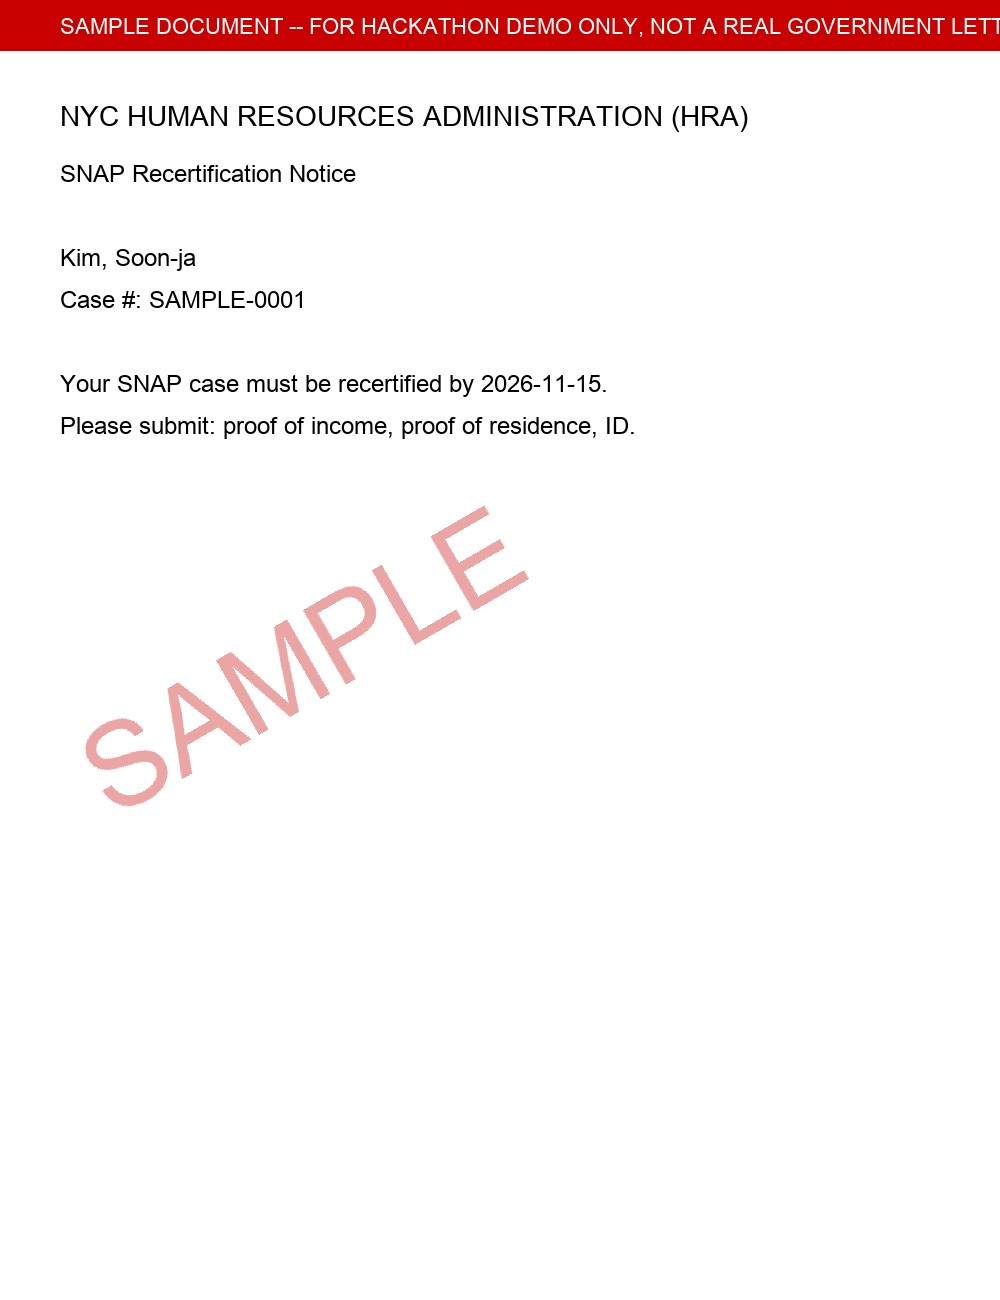
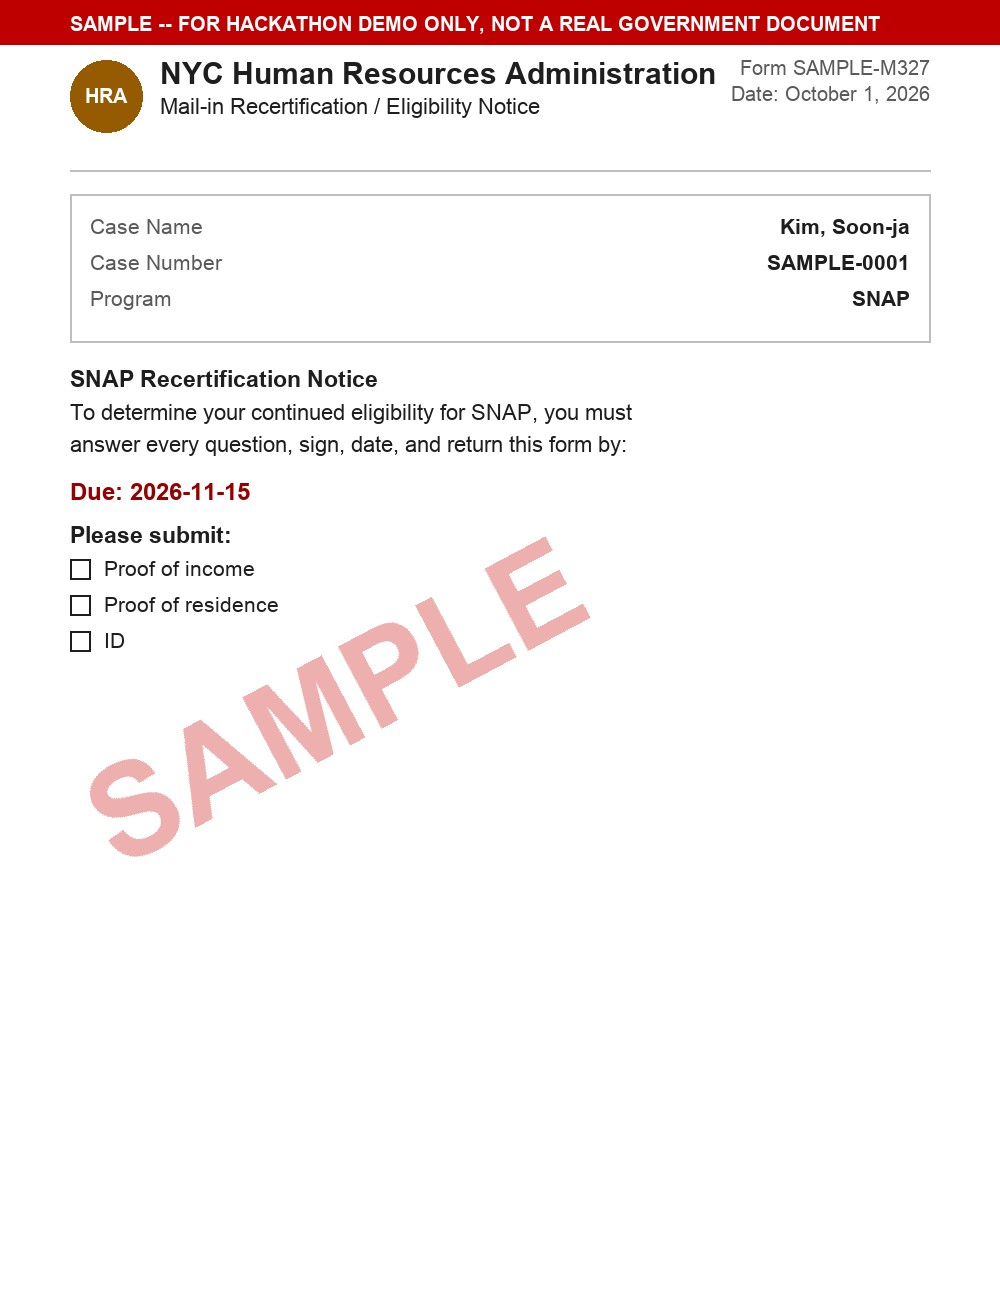
Redesign demo fixtures to match real official-document layouts
Pulled layout conventions from official samples the user sourced (SSA
Benefit Verification Letter, CMS Medicare Summary Notice for Part B, NYC
HRA Form M-327h recertification questionnaire, Medicare Rights Center
MSP coversheet): letterhead badge + reference-number block, bold section
headers, boxed claim/cost summaries with right-aligned values, checkbox
document lists. The previous fixtures were plain text dumps; these read
as something a judge would recognize as 'letter-shaped' on screen during
the live demo.

Does NOT reproduce any real agency seal/logo -- badges are generic
colored circles with abbreviation text (SSA/BK/HRA/QGH), not the actual
SSA eagle, HHS eagle, or NYC HRA marks. Every image still carries the
red SAMPLE banner and diagonal watermark; this must never be mistaken
for a real document.

Purely a visual change -- MOCK_MODE dispatches canned OCR text by
filename, never reads pixels, so the pipeline's behavior is identical.
Confirmed: 52 tests still passing.

Changed region(s): [[0.062, 0.2769, 0.651, 0.6769], [0.0, 0.0, 1.0, 0.2462], [0.775, 0.1231, 0.93, 0.2462]]

diff --git a/demo/generate_fixtures.py b/demo/generate_fixtures.py
@@ -1,11 +1,19 @@
 """Generates the four fake "SAMPLE" letter images used by the demo.
 
+Layout conventions (letterhead badge + reference-number block, bold
+section headers, boxed claim/cost summaries, checkbox document lists)
+are modeled on real official formats for visual authenticity:
+  - SSA Benefit Verification Letter (ssa.gov sample)
+  - CMS Medicare Summary Notice for Part B (cms.gov sample)
+  - NYC HRA Mail-in Recertification/Eligibility Questionnaire (Form M-327h)
+  - Medicare Rights Center MSP application coversheet
+
 These are cosmetic -- MOCK_MODE dispatches canned OCR text by filename
 keyword (see app/docs/oci_client.py), it never actually reads these
-pixels. The images exist so the demo has something real to photograph /
-show on screen, and so their rendered text matches the mock OCR text for
-narrative consistency. Every image is watermarked SAMPLE and clearly
-marked as not a real government document.
+pixels. No real agency seal/logo is reproduced (badges below are generic
+placeholders, not the actual SSA/HHS/NYC marks) and every image carries
+a SAMPLE watermark plus a banner stating it is not a real government
+document -- this must never be mistaken for an actual letter.
 
 Run with: python demo/generate_fixtures.py
 """
@@ -19,117 +27,269 @@ from PIL import Image, ImageDraw, ImageFont
 DEMO_DIR = Path(__file__).resolve().parent
 
 PAGE_SIZE = (1000, 1300)
-MARGIN = 60
+MARGIN = 70
+INK = (30, 30, 30)
+MUTED = (90, 90, 90)
+RULE = (190, 190, 190)
 
 _TRUETYPE_CANDIDATES = [
     "/System/Library/Fonts/Supplemental/Arial.ttf",
     "/System/Library/Fonts/Helvetica.ttc",
     "/usr/share/fonts/truetype/dejavu/DejaVuSans.ttf",
 ]
+_BOLD_CANDIDATES = [
+    "/System/Library/Fonts/Supplemental/Arial Bold.ttf",
+    "/System/Library/Fonts/Helvetica.ttc",
+    "/usr/share/fonts/truetype/dejavu/DejaVuSans-Bold.ttf",
+]
 
 
-def _font(size: int) -> ImageFont.FreeTypeFont:
-    for path in _TRUETYPE_CANDIDATES:
+def _font(size: int, bold: bool = False) -> ImageFont.FreeTypeFont:
+    candidates = _BOLD_CANDIDATES if bold else _TRUETYPE_CANDIDATES
+    for path in candidates:
         if Path(path).exists():
             return ImageFont.truetype(path, size)
     return ImageFont.load_default()
 
 
-def _render_letter(filename: str, header: str, body_lines: list[str]) -> None:
-    image = Image.new("RGB", PAGE_SIZE, "white")
-    draw = ImageDraw.Draw(image)
+class Letter:
+    """Small drawing helper so each fixture reads as a sequence of
+    layout blocks (letterhead, section header, body, box, checklist)
+    instead of raw coordinate math."""
 
-    banner_font = _font(22)
-    header_font = _font(28)
-    body_font = _font(24)
-    watermark_font = _font(120)
+    def __init__(self):
+        self.image = Image.new("RGB", PAGE_SIZE, "white")
+        self.draw = ImageDraw.Draw(self.image)
+        self.y = 0
 
-    draw.rectangle([(0, 0), (PAGE_SIZE[0], 50)], fill=(200, 0, 0))
-    draw.text(
-        (MARGIN, 14),
-        "SAMPLE DOCUMENT -- FOR HACKATHON DEMO ONLY, NOT A REAL GOVERNMENT LETTER",
-        font=banner_font,
-        fill="white",
+    def letterhead(self, badge_text: str, badge_color, org_lines: list[str], ref_lines: list[str]) -> None:
+        cx, cy, r = MARGIN + 36, 96, 36
+        self.draw.ellipse([cx - r, cy - r, cx + r, cy + r], fill=badge_color)
+        bf = _font(20, bold=True)
+        bbox = self.draw.textbbox((0, 0), badge_text, font=bf)
+        self.draw.text(
+            (cx - (bbox[2] - bbox[0]) / 2, cy - (bbox[3] - bbox[1]) / 2 - bbox[1]),
+            badge_text,
+            font=bf,
+            fill="white",
+        )
+
+        tx = MARGIN + 90
+        ty = 56
+        for i, line in enumerate(org_lines):
+            f = _font(30, bold=True) if i == 0 else _font(22)
+            self.draw.text((tx, ty), line, font=f, fill=INK)
+            ty += 38 if i == 0 else 28
+
+        ry = 56
+        rf = _font(20)
+        for line in ref_lines:
+            w = self.draw.textlength(line, font=rf)
+            self.draw.text((PAGE_SIZE[0] - MARGIN - w, ry), line, font=rf, fill=MUTED)
+            ry += 26
+
+        self.y = 170
+        self.draw.line([(MARGIN, self.y), (PAGE_SIZE[0] - MARGIN, self.y)], fill=RULE, width=2)
+        self.y += 24
+
+    def address_block(self, lines: list[str]) -> None:
+        f = _font(22)
+        for line in lines:
+            self.draw.text((MARGIN, self.y), line, font=f, fill=INK)
+            self.y += 28
+        self.y += 20
+
+    def section_header(self, text: str) -> None:
+        self.draw.text((MARGIN, self.y), text, font=_font(23, bold=True), fill=INK)
+        self.y += 34
+
+    def body(self, lines: list[str]) -> None:
+        f = _font(22)
+        for line in lines:
+            self.draw.text((MARGIN, self.y), line, font=f, fill=INK)
+            self.y += 32
+        self.y += 14
+
+    def box(self, rows: list[tuple[str, str]], title: str | None = None) -> None:
+        pad = 20
+        row_h = 36
+        title_h = 36 if title else 0
+        box_h = title_h + len(rows) * row_h + pad * 2
+        x0, y0 = MARGIN, self.y
+        x1 = PAGE_SIZE[0] - MARGIN
+        self.draw.rectangle([x0, y0, x1, y0 + box_h], outline=RULE, width=2)
+
+        ty = y0 + pad
+        if title:
+            self.draw.text((x0 + pad, ty), title, font=_font(22, bold=True), fill=INK)
+            ty += title_h
+
+        label_f = _font(21)
+        value_f = _font(21, bold=True)
+        for label, value in rows:
+            self.draw.text((x0 + pad, ty), label, font=label_f, fill=MUTED)
+            vw = self.draw.textlength(value, font=value_f)
+            self.draw.text((x1 - pad - vw, ty), value, font=value_f, fill=INK)
+            ty += row_h
+
+        self.y = y0 + box_h + 24
+
+    def checklist(self, items: list[str]) -> None:
+        f = _font(21)
+        box = 20
+        for item in items:
+            self.draw.rectangle(
+                [MARGIN, self.y + 3, MARGIN + box, self.y + 3 + box], outline=INK, width=2
+            )
+            self.draw.text((MARGIN + box + 14, self.y), item, font=f, fill=INK)
+            self.y += 36
+
+    def barcode_strip(self) -> None:
+        import random
+
+        rng = random.Random(42)
+        x = 20
+        while x < 50:
+            w = rng.choice([2, 2, 4])
+            self.draw.rectangle([x, 40, x + w, 240], fill="black")
+            x += w + rng.choice([3, 5])
+
+    def finish(self, filename: str) -> None:
+        banner_font = _font(20, bold=True)
+        self.draw.rectangle([(0, 0), (PAGE_SIZE[0], 44)], fill=(190, 0, 0))
+        self.draw.text(
+            (MARGIN, 12),
+            "SAMPLE -- FOR HACKATHON DEMO ONLY, NOT A REAL GOVERNMENT DOCUMENT",
+            font=banner_font,
+            fill="white",
+        )
+
+        watermark_font = _font(130, bold=True)
+        watermark = Image.new("RGBA", PAGE_SIZE, (255, 255, 255, 0))
+        wm_draw = ImageDraw.Draw(watermark)
+        wm_draw.text(
+            (PAGE_SIZE[0] * 0.06, PAGE_SIZE[1] * 0.42),
+            "SAMPLE",
+            font=watermark_font,
+            fill=(200, 0, 0, 80),
+        )
+        watermark = watermark.rotate(28, expand=False, center=(PAGE_SIZE[0] / 2, PAGE_SIZE[1] / 2))
+        image = Image.alpha_composite(self.image.convert("RGBA"), watermark).convert("RGB")
+
+        image.save(DEMO_DIR / filename, "JPEG", quality=90)
+        print(f"Wrote {filename}")
+
+
+def make_ssa_benefit_letter() -> None:
+    l = Letter()
+    l.barcode_strip()
+    l.letterhead(
+        "SSA",
+        (0, 90, 60),
+        ["Social Security Administration", "Benefit Verification Letter"],
+        ["Date: January 2, 2026", "BNC#: SAMPLE-0001", "REF: KIM-SOONJA"],
     )
-
-    y = 100
-    draw.text((MARGIN, y), header, font=header_font, fill="black")
-    y += 60
-
-    for line in body_lines:
-        draw.text((MARGIN, y), line, font=body_font, fill="black")
-        y += 42
-
-    watermark = Image.new("RGBA", PAGE_SIZE, (255, 255, 255, 0))
-    wm_draw = ImageDraw.Draw(watermark)
-    wm_draw.text(
-        (PAGE_SIZE[0] * 0.08, PAGE_SIZE[1] * 0.38),
-        "SAMPLE",
-        font=watermark_font,
-        fill=(200, 0, 0, 90),
+    l.address_block(["Kim, Soon-ja", "123 Northern Blvd, Apt 4B", "Flushing, NY 11354"])
+    l.body(
+        [
+            "You asked us for information from your record. The information",
+            "that you requested is shown below.",
+        ]
     )
-    watermark = watermark.rotate(30, expand=False, center=(PAGE_SIZE[0] / 2, PAGE_SIZE[1] / 2))
-    image = Image.alpha_composite(image.convert("RGBA"), watermark).convert("RGB")
+    l.section_header("Information About Current Social Security Benefits")
+    l.box(
+        [
+            ("Full monthly benefit before deductions", "$1,700.00"),
+            ("Medicare Part B premium deduction", "$202.90"),
+            ("Your net payment", "$1,497.10"),
+            ("Effective", "2026-01-01"),
+        ]
+    )
+    l.body(["Social Security benefits are paid the month after they are due."])
+    l.section_header("Social Security Administration")
+    l.finish("ssa_benefit_letter_sample.jpg")
 
-    image.save(DEMO_DIR / filename, "JPEG", quality=90)
-    print(f"Wrote {filename}")
+
+def make_bank_statement() -> None:
+    l = Letter()
+    l.letterhead(
+        "BK",
+        (20, 60, 140),
+        ["Sample Community Bank", "Checking Account Statement"],
+        ["Statement period:", "Sep 1 - Sep 30, 2026"],
+    )
+    l.address_block(["Account holder: Kim, Soon-ja", "123 Northern Blvd, Apt 4B", "Flushing, NY 11354"])
+    l.section_header("Account Summary")
+    l.box(
+        [
+            ("Beginning balance", "$38,312.10"),
+            ("Deposits this period", "$1,700.00"),
+            ("Ending balance", "$40,000.00"),
+        ]
+    )
+    l.section_header("Recurring Deposits")
+    l.body(["09/03/2026   SSA TREAS 310 SOC SEC          $1,700.00"])
+    l.finish("bank_statement_sample.jpg")
+
+
+def make_hra_renewal_notice() -> None:
+    l = Letter()
+    l.letterhead(
+        "HRA",
+        (150, 90, 0),
+        ["NYC Human Resources Administration", "Mail-in Recertification / Eligibility Notice"],
+        ["Form SAMPLE-M327", "Date: October 1, 2026"],
+    )
+    l.box(
+        [
+            ("Case Name", "Kim, Soon-ja"),
+            ("Case Number", "SAMPLE-0001"),
+            ("Program", "SNAP"),
+        ]
+    )
+    l.section_header("SNAP Recertification Notice")
+    l.body(
+        [
+            "To determine your continued eligibility for SNAP, you must",
+            "answer every question, sign, date, and return this form by:",
+        ]
+    )
+    l.draw.text(
+        (MARGIN, l.y), "Due: 2026-11-15", font=_font(24, bold=True), fill=(150, 0, 0)
+    )
+    l.y += 44
+    l.section_header("Please submit:")
+    l.checklist(["Proof of income", "Proof of residence", "ID"])
+    l.finish("hra_snap_renewal_notice_sample.jpg")
+
+
+def make_medical_bill() -> None:
+    l = Letter()
+    l.letterhead(
+        "QGH",
+        (0, 80, 160),
+        ["Queens General Hospital", "Billing Statement"],
+        ["Statement date: Oct 5, 2026", "Account: SAMPLE-0001"],
+    )
+    l.address_block(["Patient: Kim, Soon-ja", "123 Northern Blvd, Apt 4B", "Flushing, NY 11354"])
+    l.section_header("Your Claims & Costs This Period")
+    l.box(
+        [
+            ("Service", "Annual wellness visit"),
+            ("Category", "Copay"),
+            ("Total You May Be Billed", "$20.00"),
+        ],
+        title="Provider: Queens General Hospital",
+    )
+    l.body(["This is a Medicare claim."])
+    l.finish("medical_bill_sample.jpg")
 
 
 def main() -> None:
-    _render_letter(
-        "ssa_benefit_letter_sample.jpg",
-        "SOCIAL SECURITY ADMINISTRATION",
-        [
-            "Kim, Soon-ja",
-            "123 Northern Blvd, Apt 4B",
-            "Flushing, NY 11354",
-            "",
-            "Date: January 2, 2026",
-            "",
-            "Your monthly benefit amount is $1,700.00.",
-            "Medicare Part B premium deduction: $202.90.",
-            "Your net payment is $1,497.10.",
-            "This change is effective 2026-01-01.",
-        ],
-    )
-
-    _render_letter(
-        "bank_statement_sample.jpg",
-        "CHASE BANK -- SAMPLE STATEMENT",
-        [
-            "Account holder: Kim, Soon-ja",
-            "Statement period: Sep 1 - Sep 30, 2026",
-            "",
-            "Ending balance: $40,000.00",
-            "Recurring deposit: SSA TREAS 310   $1,700.00",
-        ],
-    )
-
-    _render_letter(
-        "hra_snap_renewal_notice_sample.jpg",
-        "NYC HUMAN RESOURCES ADMINISTRATION (HRA)",
-        [
-            "SNAP Recertification Notice",
-            "",
-            "Kim, Soon-ja",
-            "Case #: SAMPLE-0001",
-            "",
-            "Your SNAP case must be recertified by 2026-11-15.",
-            "Please submit: proof of income, proof of residence, ID.",
-        ],
-    )
-
-    _render_letter(
-        "medical_bill_sample.jpg",
-        "QUEENS GENERAL HOSPITAL -- SAMPLE BILLING STATEMENT",
-        [
-            "Patient: Kim, Soon-ja",
-            "",
-            "Provider: Queens General Hospital",
-            "Line item: Annual wellness visit copay   $20.00   (copay)",
-            "This is a Medicare claim.",
-        ],
-    )
+    make_ssa_benefit_letter()
+    make_bank_statement()
+    make_hra_renewal_notice()
+    make_medical_bill()
 
 
 if __name__ == "__main__":
